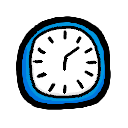
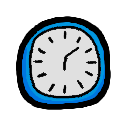
sorry, im too far to list and remember all the changes

Changed region(s): [[0.2188, 0.2188, 0.7812, 0.75]]

diff --git a/script.js b/script.js
@@ -12,6 +12,8 @@ let mines = 0
 let cols = 0
 let rows = 0
 
+let boardArray = []
+
 function forwardMenu() {
     if (crntMn == 1) {
         menu.style.display = "none";
@@ -56,30 +58,165 @@ function handleTimer() {}
 
 function handleFlagCounter() {}
 
-function createBoard() {
-    const boardArray = Array.from(
-        { length: rows },
-        () => new Array(cols).fill({
-            mine: false,
-            number: 0,
-            revealed: false,
-            flagged: false
-        })
-    );
-    console.log(boardArray, cols, rows, mines);
+function handleMines() {
+    for (i = 0; i < mines; i++) {
+        let randomCol = Math.floor(Math.random() * cols)
+        let randomRow = Math.floor(Math.random() * rows)
 
+        while (boardArray[randomRow][randomCol].mine == true) {
+            randomCol = Math.floor(Math.random() * cols)
+            randomRow = Math.floor(Math.random() * rows)
+        }
+
+        boardArray[randomRow][randomCol].mine = true
+    }
+}
+
+function calcNums() {
+    for (let row = 0; row < rows; row++) {
+        for (let col = 0; col < cols; col++) {
+            let mineCount = 0
+
+            for (let rowOffset = -1; rowOffset <= 1; rowOffset++) {
+                for (let colOffset = -1; colOffset <= 1; colOffset++){
+                    const neighRow = rowOffset + row
+                    const neighCol = colOffset + col
+
+                    if (rowOffset === 0 && colOffset === 0 || neighRow < 0 || neighRow >= rows || neighCol < 0 || neighCol >= cols) {
+                        continue
+                    } else {
+                        // console.log(boardArray[neighRow][neighCol])
+                        if (boardArray[neighRow][neighCol].mine) {
+                            mineCount++
+                        }
+                    }
+                }
+            }
+
+            boardArray[row][col].number = mineCount
+
+        }
+    }
+}
+
+function createArray() {
+    boardArray = Array.from(
+        {length: rows},
+        () => Array.from(
+            {length: cols},
+            () => ({
+                mine: false,
+                number: 0,
+                revealed: false,
+                flagged: false
+            }) 
+        
+    ))
+
+    handleMines()
+    calcNums()
+}
+
+function endGame(){
+    for (let row = 0; row < rows; row++) {
+        for (let col = 0; col < cols; col++) {
+            if (boardArray[row][col].mine) {
+                const cell = document.querySelector(`[data-row="${row}"][data-col="${col}"]`)
+                cell.innerHTML = '<img src="/img/bomb.png" class="bomb">'
+            }
+        }
+    }
+}
+
+function revealEmptyCell(row, col) {
+    for (let row = 0; row < rows; row++) {
+        for (let col = 0; col < cols; col++) {
+
+            for (let rowOffset = -1; rowOffset <= 1; rowOffset++) {
+                for (let colOffset = -1; colOffset <= 1; colOffset++){
+                    const neighRow = rowOffset + row
+                    const neighCol = colOffset + col
+
+                    if (rowOffset === 0 && colOffset === 0 || neighRow < 0 || neighRow >= rows || neighCol < 0 || neighCol >= cols || boardArray[neighRow][neighCol].revealed) {
+                        continue
+                    } else {
+                        
+                    }
+                }
+            }
+        }
+    }
+}
+
+function revealCell(cell){
+    if (boardArray[cell.dataset.row][cell.dataset.col].mine) {
+        endGame()
+    } else {
+        boardArray[cell.dataset.row][cell.dataset.col].revealed = true
+        if (boardArray[cell.dataset.row][cell.dataset.col].number == 0) {
+            cell.style.background = "#a97a1e"
+            cell.style.borderLeft = "#7e5c16 0.5px solid"
+            cell.style.borderBottom = "#7e5c16 0.5px solid"
+            cell.style.borderRight = "#7e5c16 0.5px solid"
+            cell.style.borderTop = "#7e5c16 0.5px solid"
+        } else {
+            cell.innerHTML = boardArray[cell.dataset.row][cell.dataset.col].number
+            cell.style.background = "#a97a1e"
+            cell.style.borderLeft = "#7e5c16 0.5px solid"
+            cell.style.borderBottom = "#7e5c16 0.5px solid"
+            cell.style.borderRight = "#7e5c16 0.5px solid"
+            cell.style.borderTop = "#7e5c16 0.5px solid"
+            if (cell.dataset.number == 1) {
+                cell.style.color = "#7cc7ff"
+            } else if (cell.dataset.number == 2) {
+                cell.style.color = "#66c266"
+            } else if (cell.dataset.number == 3) {
+                cell.style.color = "#ff586c"
+            } else if (cell.dataset.number == 4) {
+                cell.style.color = "#ee88ff"
+            } else if (cell.dataset.number == 5) {
+                cell.style.color = "maroon"
+            } else if (cell.dataset.number == 6) {
+                cell.style.color = "cyan"
+            } else if (cell.dataset.number == 7) {
+                cell.style.color = "black"
+            } else {
+                cell.styel.color = "grey"
+            }
+        }
+        
+    }
+}
+
+function placeFlag(cell) {
+
+}
+
+function createBoard(n) {
+
+    setDiff(n)
+
+    createArray()
+    
     for (let rowIndex = 0; rowIndex < rows; rowIndex++) {
         const row = document.createElement('div')
         row.classList.add(`row`, rowIndex)
         board.appendChild(row)
-        console.log(`row n. ${rowIndex} created`)
 
         for (let colIndex = 0; colIndex < cols; colIndex++) {
             const cell = document.createElement('div')
             cell.classList.add('cell', colIndex)
             row.appendChild(cell)
-            console.log(`cell n. ${colIndex} created`)
+            cell.dataset.row = rowIndex
+            cell.dataset.col = colIndex
+
+            cell.addEventListener("mousedown", event => {
+                if (event.button == 0) {
+                    revealCell(cell)
+                } else if (event.button == 2) {
+                    placeFlag(cell)
+                }
+            })
         }
     }
-
 }

diff --git a/board.css b/board.css
@@ -3,25 +3,32 @@
     justify-content: center;
     align-items: center;
     width: 100vw;
+    user-select: none;
 }
 
 .game-window{
-    height: 50vh;
     display: inline-block;
     flex-direction: column;
     align-items: center;
     justify-content: center;
-    border: 5px solid #e0a229;
-    border-radius: 8px;
+    border: 5px solid;
+    border-bottom-color: #876218;
+    border-right-color: #876218;
+    border-top-color: #f4c035;
+    border-left-color: #f4c035;
+    background: #b98621;
     box-shadow: rgba(255, 255, 255, 0.533) 0 0 4px;
 }
 
 .board-header button{
     place-self: center;
-    border: 2px solid #e0a229;
-    border-top: 1px solid #e0a229;
+    border: 4px solid;
     aspect-ratio: 1 / 1;
     height: 95%;
+    border-bottom-color: #876218;
+    border-right-color: #876218;
+    border-top-color: #f4c035;
+    border-left-color: #f4c035;
     background-color: transparent;
     background-image: url(img/csoki2.png);
     background-size: cover;
@@ -29,9 +36,20 @@
     background-clip: border-box;
 }
 
+.board-header button:active{
+    border-top: 4px solid;
+    border-right: 3px solid;
+    border-bottom: 3px solid;
+    border-left: 4px solid;
+    border-bottom-color: #876218;
+    border-right-color: #876218;
+    border-top-color: #876218;
+    border-left-color: #876218;
+}
+
 @media screen and (width <= 37.5rem){
     .board-header {
-        background: #f4c035;
+        background: #b98621;
         display: grid;
         grid-template-columns: repeat(3, 1fr);
         min-height: 5vh;
@@ -41,14 +59,13 @@
 
     .board-header button{
         place-self: center;
-        border: 2px solid #e0a229;
-        border-top: 1px solid #e0a229;
         aspect-ratio: 1 / 1;
-        height: 95%;
+        height: 75%;
         background-color: transparent;
         background-image: url(img/csoki2.png);
-        background-size: cover;
+        background-size: 85%;
         background-repeat: no-repeat;
+        background-position: center;
         background-clip: border-box;
     }
 
@@ -70,12 +87,13 @@
         content: "";
         position: absolute;
         top: 50%;
-        left: calc(50% - 10vw); /* nudges the icon just left of the centered text */
+        left: calc(50% - 8vw);
         transform: translateY(-50%);
         height: 7vw;
         aspect-ratio: 1 / 1;
         background-size: cover;
         background-repeat: no-repeat;
+        
     }
 
     .flag-number-panel::before{
@@ -99,20 +117,45 @@
         width: 24px;
         height: 24px;
         gap: 2px;
+        display: flex;
+        justify-content: center;
+        align-items: center;
+        color: white
+    }
+
+    .bomb {
+        width: 20px;
     }
 }
 
 .board{
     display: grid;
+    margin: 4px;
+    border: 4px solid;
+    border-bottom-color: #f4c035;
+    border-left-color: #876218;
+    border-top-color: #876218;
+    border-right-color: #f4c035;
 }
 
 .board-header-container{
     display: flex;
+    margin: 5px;
+}
+
+.game-window{
+    background: #b98621;
+    padding: 5px;
 }
 
 .board-header{
     flex-grow: 1;
     width: 0;
+    border: 4px solid;
+    border-bottom-color: #f4c035;
+    border-right-color: #f4c035;
+    border-top-color: #876218;
+    border-left-color: #876218;
 }
 
 .row{
@@ -120,5 +163,12 @@
 }
 
 .cell{
-    border: solid 1px rgba(247, 247, 247, 0.263);
+    box-sizing: border-box;
+    border: solid 2px;
+    border-left-color:#f4c035;
+    border-top-color: #f4c035;
+    border-right-color: #876218;
+    border-bottom-color: #876218;
+    text-align: center;
+    font-weight: bold
 }

diff --git a/index.html b/index.html
@@ -18,16 +18,16 @@
         </div>
         <button id="btn"><span class="material-symbols-outlined" onclick="forwardMenu()">arrow_forward</span></button>
         <div class="csoki-container" id="csoki-container">
-            <img src="img/csoki1.png" alt="#" class="csoki">
+            <img src="img/csoki1.png" alt="#" class="csoki" style="user-select: none" draggable="false">
         </div>
     </main>
 
     <section id="menu-sec">
         <h1>Choose a difficulty</h1>
 
-        <button onclick="setDiff(1); forwardMenu()" id="eBtn" style="background: rgba(122, 255, 120, 0.316)">Easy</button>
-        <button onclick="setDiff(2); forwardMenu()" id="mBtn" style="background: rgba(255, 181, 120, 0.316)">Medium</button>
-        <button onclick="setDiff(3); forwardMenu()" id="hBtn" style="background: rgba(255, 120, 120, 0.316)">Hard</button>
+        <button onclick="createBoard(1); forwardMenu()" id="eBtn" style="background: rgba(122, 255, 120, 0.316)">Easy</button>
+        <button onclick="createBoard(2); forwardMenu()" id="mBtn" style="background: rgba(255, 181, 120, 0.316)">Medium</button>
+        <button onclick="createBoard(3); forwardMenu()" id="hBtn" style="background: rgba(255, 120, 120, 0.316)">Hard</button>
     </section>
 
     <section id="game">
